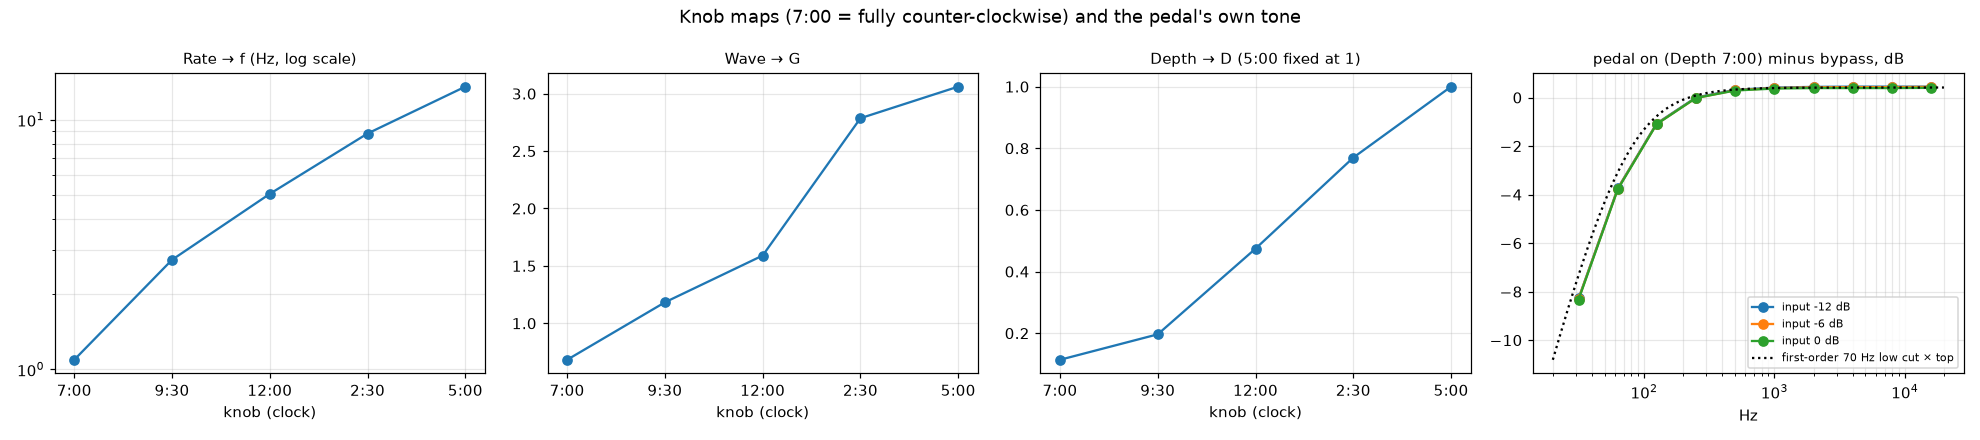
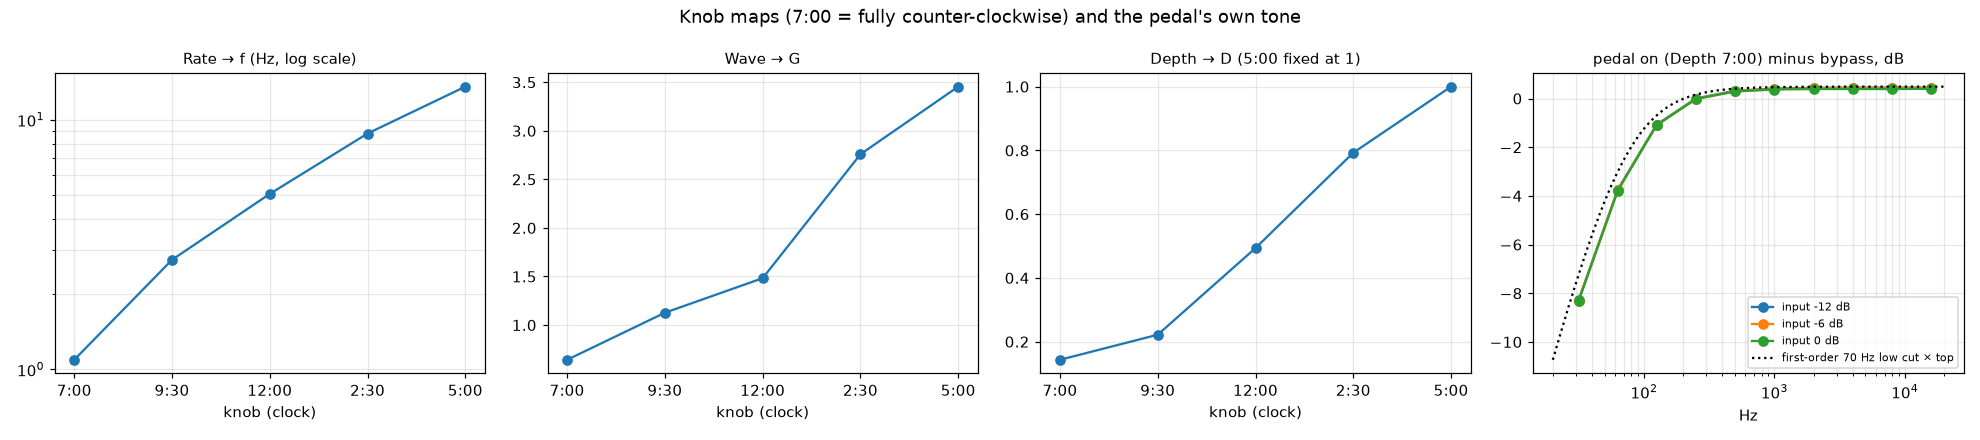
TR-2 model: the gain falls faster than it recovers. The symmetric 5 ms smoothing (and the swing shrinking above ~13 Hz it needed) becomes a one-pole follower with separate time constants, 3.5 ms falling and 8.7 ms rising: on the fast and square settings the TR-2 leaves the top almost at once but cre
Claude-Session: https://claude.ai/code/session_01EwLwvDRJ65FMQtkAXFRmr6

diff --git a/tools/capture/fit_tr2.py b/tools/capture/fit_tr2.py
@@ -8,12 +8,14 @@ carrier, gain relative to bypass):
 
     tri(phase)  triangle, +1 at phase 0, -1 at phase 0.5
     v = u0 + D * (G * (tri + beta) - kappa)      D = Depth map (1 at 5:00), G = Wave map
-    G is divided by sqrt(1 + (rate / corner)^2): the swing shrinks at fast rates
     gain = top * smooth(clamp(v))                clamp: soft limit to [0, 1] (sharpness s)
-                                                 smooth: one-pole low-pass, time constant tau
+                                                 smooth: one-pole, falling with tau_down,
+                                                 rising with tau_up (slower)
 
 Wave is a plain gain on an offset triangle: the clamp is what squares it off, and Depth
 pulls the whole swing towards a rest point above the clamp's top (full level at Depth 0).
+The gain drops about twice as fast as it recovers (fast attack, slow release), which is
+what rounds the fast settings' rising edges and makes them creep up to the top.
 Rate is measured directly per take. Outside the LFO: the pedal's level and low cut
 (pedal on at minimum depth against bypass), distortion and noise.
 """
@@ -30,7 +32,7 @@ import analysis
 
 POSITIONS = ["7:00", "9:30", "12:00", "2:30", "5:00"]
 KNOB_FRACTION = [0.0, 0.25, 0.5, 0.75, 1.0]  # of the 300° rotation
-BINS = 128
+BINS = 256
 CARRIER_HZ = 1000.0
 
 
@@ -46,7 +48,7 @@ SHAPE_TAKES |= {"cross-max": (4, 4), "cross-min": (0, 3)}
 RATE_TAKES = {"7:00": "rate-0700", "9:30": "rate-0930", "12:00": "wave-1200",
               "2:30": "rate-0230", "5:00": "rate-0500"}
 
-GLOBALS = ["u0", "beta", "kappa", "sharpness", "top", "tau_s", "rate_corner_hz"]
+GLOBALS = ["u0", "beta", "kappa", "sharpness", "top", "tau_down_s", "tau_up_s"]
 
 
 def triangle(phase):
@@ -57,18 +59,25 @@ def soft_clamp(v, sharpness):
     return (np.logaddexp(0, sharpness * v) - np.logaddexp(0, sharpness * (v - 1))) / sharpness
 
 
-def smooth_cycle(x, lfo_hz, tau):
-    """A one-pole low-pass applied to a periodic cycle (in the frequency domain)."""
-    k = np.fft.rfftfreq(len(x), 1 / len(x))
-    return np.fft.irfft(np.fft.rfft(x) / (1 + 2j * np.pi * k * lfo_hz * tau), len(x))
+def smooth_cycle(x, lfo_hz, tau_down, tau_up, cycles=3):
+    """A one-pole follower with separate falling and rising time constants, run over a
+    periodic cycle until it settles (the last of `cycles` passes is returned)."""
+    dt = 1 / (lfo_hz * len(x))
+    down, up = 1 - np.exp(-dt / tau_down), 1 - np.exp(-dt / tau_up)
+    y = x[-1]
+    out = np.empty_like(x)
+    for _ in range(cycles):
+        for i, target in enumerate(x):
+            y += (up if target > y else down) * (target - y)
+            out[i] = y
+    return out
 
 
 def model_cycle(constants, wave_gain, depth, lfo_hz, phase_offset, bins=BINS):
-    u0, beta, kappa, sharpness, top, tau, corner = constants
+    u0, beta, kappa, sharpness, top, tau_down, tau_up = constants
     phase = (np.arange(bins) + 0.5) / bins
-    gain = wave_gain / np.sqrt(1 + (lfo_hz / corner) ** 2)
-    v = u0 + depth * (gain * (triangle(np.mod(phase - phase_offset, 1)) + beta) - kappa)
-    return top * smooth_cycle(soft_clamp(v, sharpness), lfo_hz, tau)
+    v = u0 + depth * (wave_gain * (triangle(np.mod(phase - phase_offset, 1)) + beta) - kappa)
+    return top * smooth_cycle(soft_clamp(v, sharpness), lfo_hz, tau_down, tau_up)
 
 
 def measure_cycles(session):
@@ -102,10 +111,10 @@ def fit(cycles):
                         offsets[i]) - cycles[n][1] for i, n in enumerate(names)])
 
     # Starting point and bounds: the values the exploration settled on, widely bracketed.
-    start = [1.24, 0.38, 0.93, 25, 1.05, 0.006, 40]
+    start = [1.24, 0.38, 0.93, 25, 1.05, 0.003, 0.008]
     start += [0.6, 1.1, 1.5, 2.8, 4] + [0.05, 0.3, 0.5, 0.8]
-    low = [0, -2, -5, 1, 0.8, 0, 2] + [0] * 9
-    high = [5, 3, 5, 300, 1.3, 0.05, 1000] + [50] * 5 + [3] * 4
+    low = [0, -2, -5, 1, 0.8, 1e-5, 1e-5] + [0] * 9
+    high = [5, 3, 5, 300, 1.3, 0.05, 0.05] + [50] * 5 + [3] * 4
     start += [0] * len(names)
     low += [-0.2] * len(names)
     high += [0.2] * len(names)
@@ -179,16 +188,16 @@ def plot_explainers(out, session, constants, wave, depth, rates, tone):
     matplotlib.use("Agg")
     import matplotlib.pyplot as plt
 
-    u0, beta, kappa, sharpness, top, tau, corner = constants
+    u0, beta, kappa, sharpness, top, tau_down, tau_up = constants
     phase = (np.arange(512) + 0.5) / 512
     tri = triangle(phase)
     lfo_hz = rates["12:00"]
     colors = ["C0", "C1", "C2", "C3", "C4"]
 
     def stages(g, d):
-        v = u0 + d * (g / np.sqrt(1 + (lfo_hz / corner) ** 2) * (tri + beta) - kappa)
+        v = u0 + d * (g * (tri + beta) - kappa)
         clamped = soft_clamp(v, sharpness)
-        return v, clamped, top * smooth_cycle(clamped, lfo_hz, tau)
+        return v, clamped, top * smooth_cycle(clamped, lfo_hz, tau_down, tau_up)
 
     # What the fit is made from: one second of a take and its envelope.
     take = analysis.Take(session, "wave-1200")
@@ -228,7 +237,7 @@ def plot_explainers(out, session, constants, wave, depth, rates, tone):
     axes[1].legend(fontsize=8, loc="upper center")
     titles = ["1. triangle LFO: tri", r"2. control: $v = u_0 + D\,(G\,(tri+\beta) - \kappa)$",
               f"3. soft clamp to [0, 1] (s = {sharpness:.1f})",
-              f"4. one-pole smoothing ({tau * 1000:.1f} ms) × top → gain"]
+              f"4. smoothing (down {tau_down * 1000:.1f} ms, up {tau_up * 1000:.1f} ms) × top"]
     for axis, title in zip(axes, titles):
         axis.set_title(title, fontsize=10)
         axis.set_xlabel("LFO phase (cycles)")
@@ -303,8 +312,8 @@ def main():
     result = {
         "pedal": "Boss TR-2",
         "session": session.name,
-        "model": "gain = top * smooth(clamp01(u0 + D * (G / sqrt(1 + (rate / rate_corner_hz)^2)"
-                 " * (tri + beta) - kappa)))",
+        "model": "gain = top * follow(clamp01(u0 + D * (G * (tri + beta) - kappa)));"
+                 " follow = one-pole, tau_down falling, tau_up rising",
         "constants": {k: round(float(v), 5) for k, v in zip(GLOBALS, constants)},
         "knob_fraction": KNOB_FRACTION,
         "rate_hz": rates,
